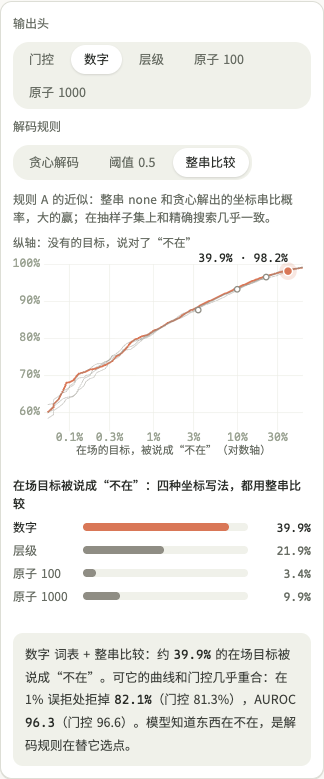
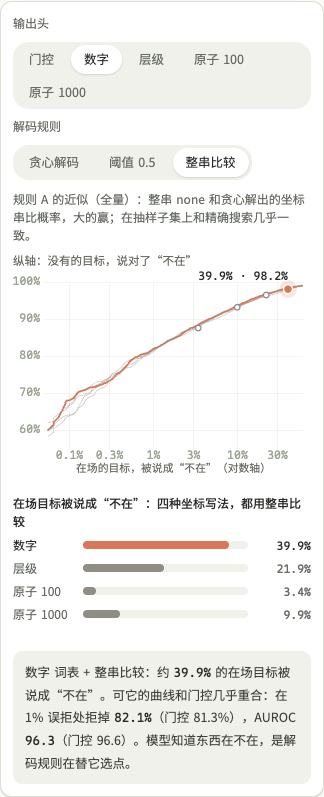
post(glance): the dial says its whole-string rule is a full-set approximation

diff --git a/content/widgets/glance/dial.js b/content/widgets/glance/dial.js
@@ -8,7 +8,7 @@ const RULES = [["greedy", "贪心解码"], ["threshold", "阈值 0.5"], ["map", 
 const RULE_TEXT = {
   greedy: "每一步取最可能的 token，第一个 token 是 none 就算“不在”",
   threshold: "P(none) ≥ 0.5 就算“不在”",
-  map: "规则 A 的近似：整串 none 和贪心解出的坐标串比概率，大的赢；在抽样子集上和精确搜索几乎一致",
+  map: "规则 A 的近似（全量）：整串 none 和贪心解出的坐标串比概率，大的赢；在抽样子集上和精确搜索几乎一致",
 };
 
 export default async function dial(stage, { base }) {
